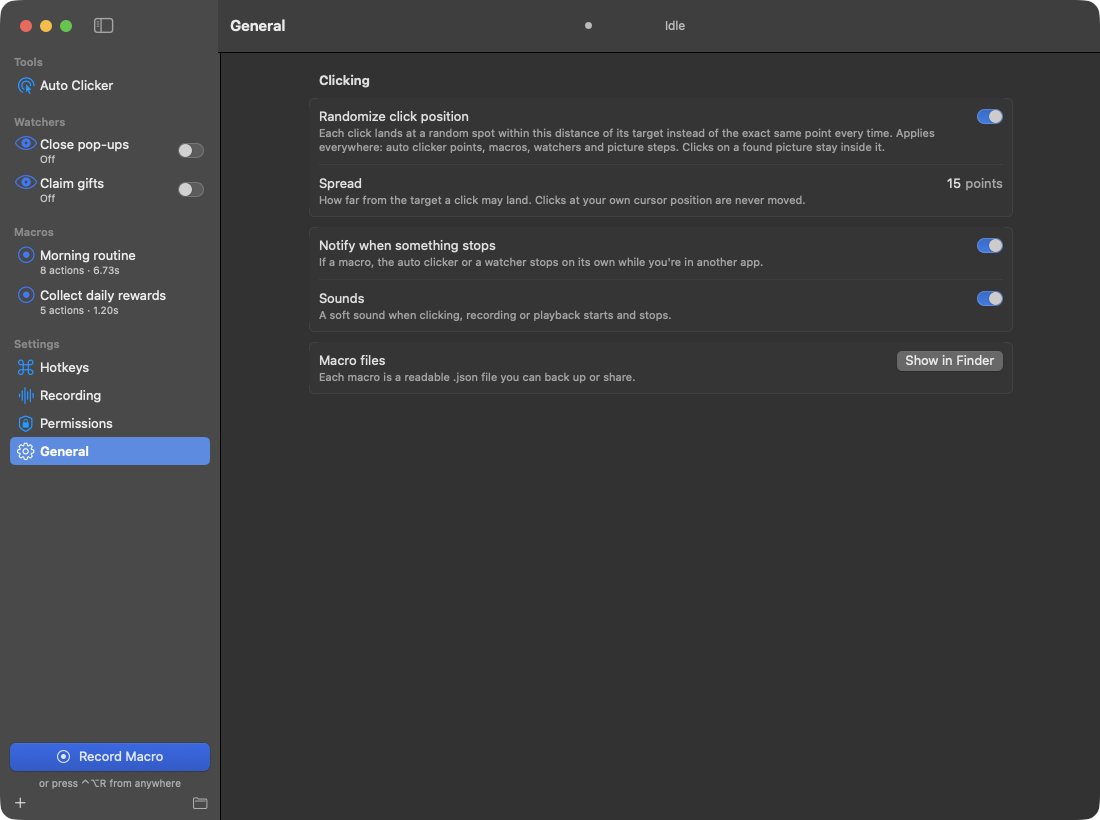
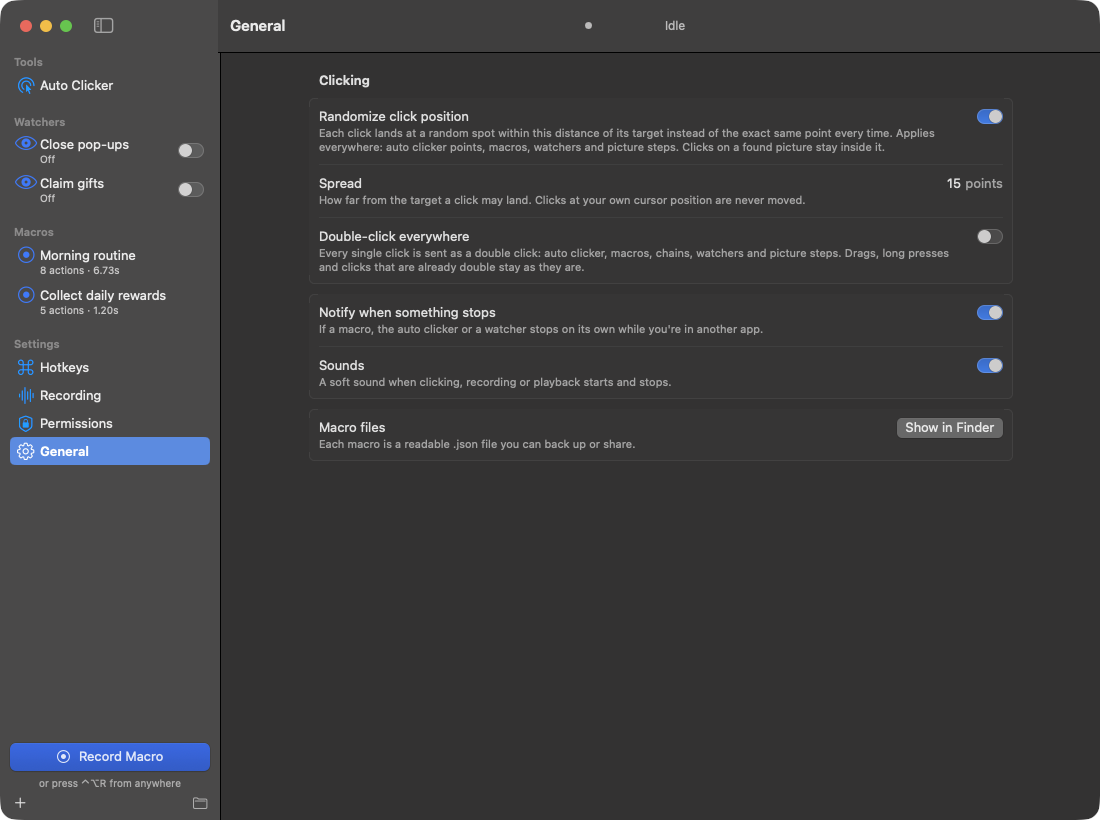
Add Double-click everywhere setting
Settings > General > Clicking. Every single click (auto clicker, macros, chains,
watchers, picture and text steps) is sent as a double click on the same spot.
Drags, long presses and clicks that are already double or triple are unchanged.
QA: double-click suite drives the real Performer with posting redirected.

diff --git a/Sources/MacroClicker/EventSynth.swift b/Sources/MacroClicker/EventSynth.swift
@@ -57,12 +57,16 @@ enum EventSynth {
 
     /// Posts the event; returns its sequence number. Numbering and posting happen together so that
     /// sequence order is the order events reach the system.
+    /// Tests only: when set, events are handed here instead of being posted.
+    nonisolated(unsafe) static var testSink: ((CGEvent) -> Void)?
+
     @discardableResult
     private static func post(_ e: CGEvent, _ route: Route, keyboard: Bool = false) -> UInt32 {
         postLock.lock()
         defer { postLock.unlock() }
         sequence &+= 1
         e.setIntegerValueField(.eventSourceUserData, value: marker << 32 | Int64(sequence))
+        if let testSink { testSink(e); return sequence } // tests: record instead of clicking for real
         if route.pid != 0 && (keyboard || route.mode == .background) {
             if !keyboard && route.windowNumber != 0 {
                 e.setIntegerValueField(.mouseEventWindowUnderMousePointer, value: Int64(route.windowNumber))
@@ -143,8 +147,24 @@ enum ClickSpread {
     }
 }
 
+/// Global double-click: every single click is sent as a double click (drags and long presses stay as they are).
+/// Set from Settings › General.
+enum DoubleClickEverywhere {
+    private static let lock = NSLock()
+    private static var on = false
+    static var enabled: Bool { lock.withLock { on } }
+    static func configure(enabled: Bool) { lock.withLock { on = enabled } }
+    /// Presses held at least this long are long presses, not clicks.
+    static let longPress = 0.5
+}
+
 final class Performer {
     var route: Route
+    /// Double-click everywhere bookkeeping: the current press (button, when, whether it dragged), and a
+    /// button whose recorded 2nd press is skipped because its first click was already doubled.
+    private var press: (button: MouseButton, start: Double, dragged: Bool)?
+    private var skipRecordedPress: MouseButton?
+    private var skippingRelease: MouseButton?
     /// Spread for the current press, reused for its drags and release and for the next press of a double-click.
     private var pressOffset = CGVector.zero
     /// When set (window coordinates), spread clicks stay inside it, e.g. the picture that was found.
@@ -227,10 +247,21 @@ final class Performer {
         case .move(let x, let y):
             EventSynth.mouse(.mouseMoved, at: pos(x, y), button: .left, route: route)
         case .drag(let b, let x, let y):
+            press?.dragged = true
             let at = spreadPoint(pos(x, y), newPress: false, absolute: absolute)
             landed = at
             seq = EventSynth.mouse(b.dragType, at: at, button: b, route: route)
+        case .mouseDown(let b, _, _, let c, _) where c >= 2 && skipRecordedPress == b:
+            // Recorded double-click whose first click was already sent as a double: skip this press and its release.
+            skipRecordedPress = nil
+            skippingRelease = b
+            return waited
+        case .mouseUp(let b, _, _, _, _) where skippingRelease == b:
+            skippingRelease = nil
+            return waited
         case .mouseDown(let b, let x, let y, let c, let f):
+            press = c <= 1 ? (b, Timing.now(), false) : nil
+            if c <= 1 { skipRecordedPress = nil }
             // A new spot for each new press; the 2nd/3rd press of a double/triple click keeps the first one's.
             let at = spreadPoint(pos(x, y), newPress: c <= 1, absolute: absolute)
             // Some apps only accept a press where the pointer is already hovering.
@@ -243,11 +274,20 @@ final class Performer {
             landed = at
             seq = EventSynth.mouse(b.upType, at: at, button: b, clickCount: c, flags: f, route: route)
             heldButtons.remove(b)
+            if c <= 1, let p = press, p.button == b, !p.dragged, Timing.now() - p.start < DoubleClickEverywhere.longPress,
+               DoubleClickEverywhere.enabled {
+                usleep(30_000) // a short, human-like gap between the two clicks
+                EventSynth.mouse(b.downType, at: at, button: b, clickCount: 2, flags: f, route: route)
+                seq = EventSynth.mouse(b.upType, at: at, button: b, clickCount: 2, flags: f, route: route)
+                skipRecordedPress = b
+            }
+            press = nil
         case .click(let b, let x, let y, let count):
             let p = (x != nil && y != nil) ? spreadPoint(pos(x!, y!), newPress: true, absolute: absolute) : EventSynth.cursor
             landed = p
             if background { EventSynth.mouse(.mouseMoved, at: p, button: .left, route: route) }
-            for i in 1...max(1, count) {
+            let presses = count <= 1 && DoubleClickEverywhere.enabled ? 2 : max(1, count)
+            for i in 1...presses {
                 EventSynth.mouse(b.downType, at: p, button: b, clickCount: i, route: route)
                 seq = EventSynth.mouse(b.upType, at: p, button: b, clickCount: i, route: route)
             }

diff --git a/Tests/qa/double-click.swift b/Tests/qa/double-click.swift
@@ -1,0 +1,64 @@
+import CoreGraphics
+import Foundation
+var failures = 0
+func check(_ name: String, _ ok: Bool, _ detail: String = "") {
+    print((ok ? "PASS " : "FAIL ") + name + (detail.isEmpty ? "" : "  — " + detail)); if !ok { failures += 1 }
+}
+
+// Record what would be sent: "down1 up1 down2 up2…" (button presses with their click count).
+var sent: [String] = []
+EventSynth.testSink = { e in
+    let c = e.getIntegerValueField(.mouseEventClickState)
+    switch e.type {
+    case .leftMouseDown, .rightMouseDown: sent.append("down\(c)")
+    case .leftMouseUp, .rightMouseUp: sent.append("up\(c)")
+    case .leftMouseDragged: sent.append("drag")
+    default: break
+    }
+}
+ClickSpread.configure(enabled: false, radius: 0)
+let p = Performer(route: Route(mode: .normal, pid: 0, windowNumber: 0, origin: .zero))
+func run(_ actions: [StepAction], holdBeforeLast: Double = 0) -> String {
+    sent = []
+    for (i, a) in actions.enumerated() {
+        if i == actions.count - 1 && holdBeforeLast > 0 { usleep(UInt32(holdBeforeLast * 1_000_000)) }
+        p.perform(a)
+    }
+    return sent.joined(separator: " ")
+}
+let down1 = StepAction.mouseDown(button: .left, x: 10, y: 10, clickCount: 1, flags: 0)
+let up1 = StepAction.mouseUp(button: .left, x: 10, y: 10, clickCount: 1, flags: 0)
+let down2 = StepAction.mouseDown(button: .left, x: 10, y: 10, clickCount: 2, flags: 0)
+let up2 = StepAction.mouseUp(button: .left, x: 10, y: 10, clickCount: 2, flags: 0)
+
+DoubleClickEverywhere.configure(enabled: false)
+check("off: a click stays single", run([down1, up1]) == "down1 up1", run([down1, up1]))
+
+DoubleClickEverywhere.configure(enabled: true)
+check("on: a recorded click becomes a double click", run([down1, up1]) == "down1 up1 down2 up2", run([down1, up1]))
+check("on: a recorded double click stays a double click (not 4 presses)",
+      run([down1, up1, down2, up2]) == "down1 up1 down2 up2", run([down1, up1, down2, up2]))
+check("on: two separate clicks become two double clicks",
+      run([down1, up1, down1, up1]) == "down1 up1 down2 up2 down1 up1 down2 up2")
+let drag = StepAction.drag(button: .left, x: 60, y: 10)
+let dragUp = StepAction.mouseUp(button: .left, x: 60, y: 10, clickCount: 1, flags: 0)
+check("on: a drag stays a drag", run([down1, drag, dragUp]) == "down1 drag up1", run([down1, drag, dragUp]))
+check("on: a long press stays a long press", run([down1, up1], holdBeforeLast: 0.6) == "down1 up1")
+check("on: a click action (auto clicker, picture steps) becomes double",
+      run([.click(button: .left, x: 10, y: 10, count: 1)]) == "down1 up1 down2 up2")
+check("on: a triple click action stays triple",
+      run([.click(button: .left, x: 10, y: 10, count: 3)]) == "down1 up1 down2 up2 down3 up3")
+let rDown = StepAction.mouseDown(button: .right, x: 10, y: 10, clickCount: 1, flags: 0)
+let rUp = StepAction.mouseUp(button: .right, x: 10, y: 10, clickCount: 1, flags: 0)
+check("on: right clicks are doubled too", run([rDown, rUp]) == "down1 up1 down2 up2")
+// Both presses of the doubled click land on the same spot (with click spread on).
+ClickSpread.configure(enabled: true, radius: 15)
+var spots: [CGPoint] = []
+EventSynth.testSink = { e in if e.type == .leftMouseDown || e.type == .leftMouseUp { spots.append(e.location) } }
+p.perform(.mouseDown(button: .left, x: 100, y: 100, clickCount: 1, flags: 0))
+p.perform(.mouseUp(button: .left, x: 100, y: 100, clickCount: 1, flags: 0))
+check("on: both clicks of the double land on the same spot", spots.count == 4 && Set(spots.map { "\($0)" }).count == 1,
+      "\(spots)")
+
+print(failures == 0 ? "ALL PASSED" : "\(failures) FAILED")
+exit(failures == 0 ? 0 : 1)

diff --git a/Sources/MacroClicker/AppModel.swift b/Sources/MacroClicker/AppModel.swift
@@ -9,6 +9,7 @@ final class AppModel: ObservableObject {
         didSet {
             Persist.save(prefs, "prefs")
             ClickSpread.configure(enabled: prefs.clickSpread, radius: prefs.clickSpreadRadius)
+            DoubleClickEverywhere.configure(enabled: prefs.doubleClickEverywhere)
         }
     }
     @Published private(set) var hotkeys: [HotkeyAction: Hotkey] {
@@ -70,6 +71,7 @@ final class AppModel: ObservableObject {
         let loadedPrefs = Persist.load("prefs", default: Preferences())
         prefs = loadedPrefs
         ClickSpread.configure(enabled: loadedPrefs.clickSpread, radius: loadedPrefs.clickSpreadRadius)
+        DoubleClickEverywhere.configure(enabled: loadedPrefs.doubleClickEverywhere)
         var loadedHotkeys = Persist.load("hotkeys", default: HotkeyAction.defaults)
         // Hotkeys added in later versions get their default once (unless that shortcut is already taken).
         if UserDefaults.standard.integer(forKey: "hotkeysVersion") < 2 {

diff --git a/Sources/MacroClicker/Views/SettingsView.swift b/Sources/MacroClicker/Views/SettingsView.swift
@@ -116,6 +116,10 @@ struct GeneralSettingsView: View {
                         Text("How far from the target a click may land. Clicks at your own cursor position are never moved.")
                     }
                 }
+                Toggle(isOn: $model.prefs.doubleClickEverywhere) {
+                    Text("Double-click everywhere")
+                    Text("Every single click is sent as a double click: auto clicker, macros, chains, watchers and picture steps. Drags, long presses and clicks that are already double stay as they are.")
+                }
             }
             Section {
                 Toggle(isOn: $model.prefs.notifyWhenStopped) {

diff --git a/Sources/MacroClicker/Models.swift b/Sources/MacroClicker/Models.swift
@@ -486,6 +486,8 @@ struct Preferences: Codable, Equatable {
     var clickSpreadRadius: Double = 15
     /// A notification when something stops on its own while MacroClicker is in the background.
     var notifyWhenStopped = true
+    /// Every single click is sent as a double click (everywhere: auto clicker, macros, chains, watchers).
+    var doubleClickEverywhere = false
 }
 
 // MARK: - Formatting

diff --git a/README.md b/README.md
@@ -101,6 +101,8 @@ that wait for a button to appear before tapping it. It works with any app or win
 - Positions are stored relative to the target app's window, so moving the window doesn't break anything
 - Optional click spread: every click lands at a random spot within a radius you choose, and clicks on a
   found picture always stay inside it
+- Optional double-click everywhere: every single click is sent as a double click, while drags and long
+  presses stay as they are
 - A notification if something stops on its own while you're in another app, such as a chain that
   gave up waiting or a watcher that reached its click limit
 
